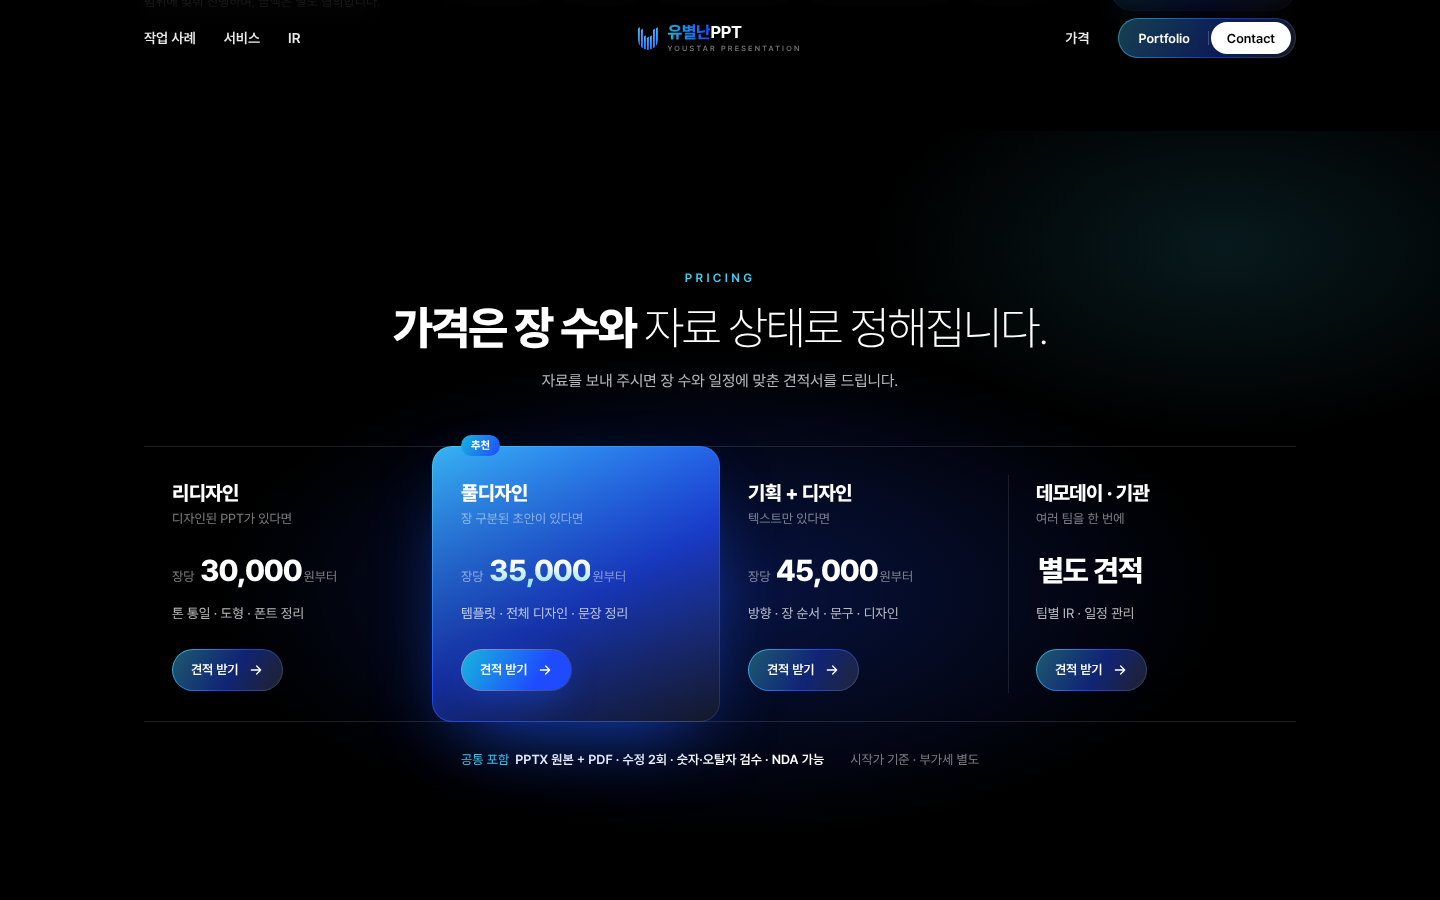
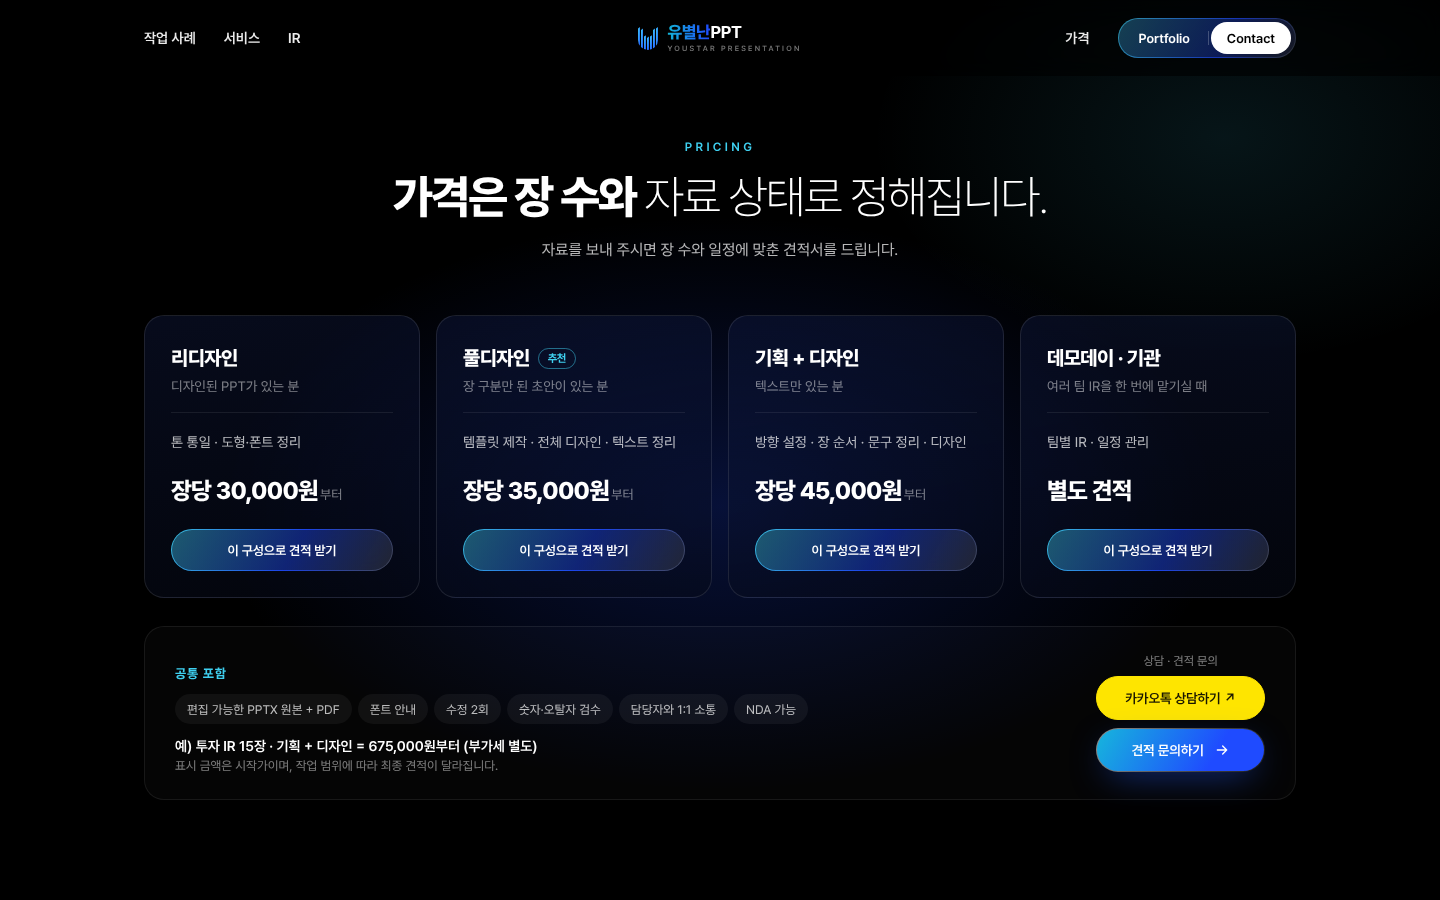
v2 pricing: restore original table content, recommend as small badge only
Claude-Session: https://claude.ai/code/session_01NURhbB6Mq8R8WnaczfYj5a

diff --git a/redesign/v2/index.html b/redesign/v2/index.html
@@ -223,43 +223,42 @@ a{color:inherit;text-decoration:none}
   .ext .gbtn{width:100%}
 }
 
-/* 일곱 번째: 가격 — 한 줄 4칸 표, 추천 칸만 빛 테두리, 아래 공통 포함 한 줄 */
+/* 일곱 번째: 가격 — 기존 사이트 표 그대로(4칸 카드 + 공통 포함 + 예시 + 상담), 추천은 작은 배지만 */
 .prc{position:relative;padding:140px 0 120px;isolation:isolate}
-.prc::before{content:"";position:absolute;inset:0;z-index:-1;background:radial-gradient(ellipse 50% 45% at 50% 60%,rgba(31,75,255,.26),transparent 70%),radial-gradient(ellipse 35% 35% at 85% 15%,rgba(63,208,240,.12),transparent 70%)}
+.prc::before{content:"";position:absolute;inset:0;z-index:-1;background:radial-gradient(ellipse 50% 45% at 50% 55%,rgba(31,75,255,.22),transparent 70%),radial-gradient(ellipse 35% 35% at 85% 15%,rgba(63,208,240,.1),transparent 70%)}
 .prc__head{text-align:center}
 .prc small.k{display:block;font-size:12px;font-weight:600;letter-spacing:.28em;color:#3fd0f0;text-transform:uppercase}
 .prc h2{margin:16px 0 0;font-size:clamp(28px,3.2vw,46px);line-height:1.18;letter-spacing:-.045em}
 .prc h2 b{font-weight:800}.prc h2 span{font-weight:250}
 .prc__head p{margin:16px 0 0;font-size:15.5px;color:var(--ink-2)}
-.ptab{display:grid;grid-template-columns:repeat(4,1fr);margin-top:56px;border-top:1px solid rgba(255,255,255,.12);border-bottom:1px solid rgba(255,255,255,.12)}
-.pcol{position:relative;display:flex;flex-direction:column;padding:34px 28px 30px;opacity:0;transform:translateY(16px);transition:opacity .9s var(--ease),transform .9s var(--ease)}
+.ptab{display:grid;grid-template-columns:repeat(4,1fr);gap:16px;margin-top:56px}
+.pcol{position:relative;display:flex;flex-direction:column;padding:30px 26px 26px;border-radius:20px;border:1px solid rgba(255,255,255,.1);background:linear-gradient(170deg,rgba(20,32,80,.35),rgba(6,10,24,.5));opacity:0;transform:translateY(16px);transition:opacity .9s var(--ease),transform .9s var(--ease),border-color .4s}
+.pcol:hover{border-color:rgba(63,208,240,.45)}
 .ptab.is-in .pcol{opacity:1;transform:none}
 .ptab.is-in .pcol:nth-child(2){transition-delay:.1s}.ptab.is-in .pcol:nth-child(3){transition-delay:.2s}.ptab.is-in .pcol:nth-child(4){transition-delay:.3s}
-.pcol+.pcol::before{content:"";position:absolute;left:0;top:28px;bottom:28px;width:1px;background:rgba(255,255,255,.1)}
-.pcol--pick{margin:-1px 0;border-radius:20px;background:linear-gradient(170deg,rgba(31,75,255,.22),rgba(6,10,28,.6)) padding-box,linear-gradient(150deg,#3fd0f0,#1f4bff 55%,rgba(255,255,255,.15)) border-box;border:1px solid transparent;box-shadow:0 30px 80px -30px rgba(31,90,255,.8)}
-.pcol--pick::before,.pcol--pick+.pcol::before{display:none}
-.pcol__badge{position:absolute;top:-12px;left:28px;padding:4px 10px;border-radius:999px;font-size:11px;font-weight:700;color:#fff;background:linear-gradient(120deg,#16b6dc,#1f4bff)}
-.pcol h3{margin:0;font-size:20px;font-weight:800;letter-spacing:-.03em}
-.pcol__for{margin:6px 0 0;font-size:13px;color:var(--ink-3)}
-.pcol__num{margin:26px 0 0;font-size:13px;color:var(--ink-3)}
-.pcol__num b{font-size:30px;font-weight:800;letter-spacing:-.04em;color:#fff;font-variant-numeric:tabular-nums;margin:0 2px}
-.pcol--pick .pcol__num b{background:linear-gradient(180deg,#fff 30%,#8fdcff);-webkit-background-clip:text;background-clip:text;color:transparent}
-.pcol__inc{margin:14px 0 0;font-size:13.5px;line-height:1.65;color:var(--ink-2)}
-.pcol .gbtn{margin-top:auto;height:42px;padding:0 18px;font-size:13px;align-self:flex-start}
-.pcol__inc{margin-bottom:24px}
-.prc__foot{display:flex;flex-wrap:wrap;align-items:center;justify-content:center;gap:10px 26px;margin-top:30px;font-size:13px;color:var(--ink-3)}
-.prc__foot b{color:#fff;font-weight:600}
-.prc__foot i{font-style:normal;color:#3fd0f0;margin-right:6px}
-@media (max-width:980px){.ptab{grid-template-columns:1fr 1fr}.pcol:nth-child(3)::before{display:none}}
+.pcol h3{display:flex;align-items:center;gap:8px;margin:0;font-size:20px;font-weight:800;letter-spacing:-.03em}
+.pcol__badge{padding:3px 9px;border-radius:999px;font-size:11px;font-weight:700;color:#3fd0f0;border:1px solid rgba(63,208,240,.5)}
+.pcol__for{margin:8px 0 0;font-size:13.5px;color:var(--ink-3)}
+.pcol__inc{margin:18px 0 0;padding-top:18px;border-top:1px solid rgba(255,255,255,.08);font-size:14px;line-height:1.65;color:var(--ink-2)}
+.pcol__num{margin:22px 0 24px;font-size:13px;color:var(--ink-3)}
+.pcol__num b{font-size:24px;font-weight:800;letter-spacing:-.03em;color:#fff;margin-right:2px}
+.pcol .gbtn{margin-top:auto;height:42px;padding:0 18px;font-size:13px;align-self:stretch}
+.pfoot{margin-top:28px;padding:26px 30px;border-radius:20px;border:1px solid rgba(255,255,255,.08);background:rgba(255,255,255,.02);display:grid;grid-template-columns:1fr auto;gap:18px 30px;align-items:center}
+.pfoot__t{font-size:13px;font-weight:700;color:#3fd0f0;letter-spacing:.06em}
+.pincl{display:flex;flex-wrap:wrap;gap:6px;margin:10px 0 0;padding:0;list-style:none}
+.pincl li{height:30px;display:inline-flex;align-items:center;padding:0 12px;border-radius:999px;font-size:12.5px;color:var(--ink-2);background:rgba(255,255,255,.05)}
+.pfoot__ex{margin:14px 0 0;font-size:14px;color:#fff;font-weight:600}
+.pfoot__basis{margin:4px 0 0;font-size:12.5px;color:var(--ink-3)}
+.pfoot__acts{display:flex;flex-direction:column;gap:8px;align-items:stretch}
+.pfoot__acts span{font-size:12px;color:var(--ink-3);text-align:center}
+.pfoot__acts .gbtn{height:44px;font-size:13.5px}
+.gbtn.gbtn--kakao{background:#fee500!important;border-color:#fee500!important;color:#191600!important;backdrop-filter:none}
+@media (max-width:980px){.ptab{grid-template-columns:1fr 1fr}}
 @media (max-width:860px){
   .prc{padding:96px 0 80px}
   .prc h2{font-size:clamp(26px,7.6vw,34px)}
-  .ptab{grid-template-columns:1fr;border:0;margin-top:40px;gap:12px}
-  .pcol{padding:24px 22px;border-radius:18px;background:rgba(255,255,255,.03)}
-  .pcol::before{display:none}
-  .pcol--pick{margin:8px 0 0}
-  .pcol__num{margin-top:16px}
-  .prc__foot{justify-content:flex-start;flex-direction:column;align-items:flex-start;gap:6px}
+  .ptab{grid-template-columns:1fr;margin-top:40px;gap:12px}
+  .pfoot{grid-template-columns:1fr;padding:22px 20px}
 }
 
 /* 섹션마다 핵심 요소에 첫 화면 빛과 같은 청록·파랑 네온을 은은하게 */
@@ -478,8 +477,16 @@ a{color:inherit;text-decoration:none}
       <h2><b>가격은 장 수와</b> <span>자료 상태로 정해집니다.</span></h2>
       <p>자료를 보내 주시면 장 수와 일정에 맞춘 견적서를 드립니다.</p>
     </div>
-    <div class="ptab" id="ptab"><article class="pcol"><h3>리디자인</h3><p class="pcol__for">디자인된 PPT가 있다면</p><p class="pcol__num">장당 <b>30,000</b>원부터</p><p class="pcol__inc">톤 통일 · 도형 · 폰트 정리</p><a class="gbtn" href="#contact" data-package="리디자인">견적 받기<svg viewBox="0 0 24 24" fill="none" stroke="currentColor" stroke-width="2" stroke-linecap="round" stroke-linejoin="round"><path d="M5 12h14M13 6l6 6-6 6"/></svg></a></article><article class="pcol pcol--pick"><span class="pcol__badge">추천</span><h3>풀디자인</h3><p class="pcol__for">장 구분된 초안이 있다면</p><p class="pcol__num">장당 <b>35,000</b>원부터</p><p class="pcol__inc">템플릿 · 전체 디자인 · 문장 정리</p><a class="gbtn gbtn--fill" href="#contact" data-package="풀디자인">견적 받기<svg viewBox="0 0 24 24" fill="none" stroke="currentColor" stroke-width="2" stroke-linecap="round" stroke-linejoin="round"><path d="M5 12h14M13 6l6 6-6 6"/></svg></a></article><article class="pcol"><h3>기획 + 디자인</h3><p class="pcol__for">텍스트만 있다면</p><p class="pcol__num">장당 <b>45,000</b>원부터</p><p class="pcol__inc">방향 · 장 순서 · 문구 · 디자인</p><a class="gbtn" href="#contact" data-package="기획 + 디자인">견적 받기<svg viewBox="0 0 24 24" fill="none" stroke="currentColor" stroke-width="2" stroke-linecap="round" stroke-linejoin="round"><path d="M5 12h14M13 6l6 6-6 6"/></svg></a></article><article class="pcol"><h3>데모데이 · 기관</h3><p class="pcol__for">여러 팀을 한 번에</p><p class="pcol__num"><b>별도 견적</b></p><p class="pcol__inc">팀별 IR · 일정 관리</p><a class="gbtn" href="#contact" data-package="데모데이 · 기관">견적 받기<svg viewBox="0 0 24 24" fill="none" stroke="currentColor" stroke-width="2" stroke-linecap="round" stroke-linejoin="round"><path d="M5 12h14M13 6l6 6-6 6"/></svg></a></article></div>
-    <p class="prc__foot"><span><i>공통 포함</i><b>PPTX 원본 + PDF · 수정 2회 · 숫자·오탈자 검수 · NDA 가능</b></span><span>시작가 기준 · 부가세 별도</span></p>
+    <div class="ptab" id="ptab"><article class="pcol"><h3>리디자인</h3><p class="pcol__for">디자인된 PPT가 있는 분</p><p class="pcol__inc">톤 통일 · 도형·폰트 정리</p><p class="pcol__num"><b>장당 30,000원</b>부터</p><a class="gbtn" href="#contact" data-package="리디자인">이 구성으로 견적 받기</a></article><article class="pcol"><h3>풀디자인<span class="pcol__badge">추천</span></h3><p class="pcol__for">장 구분만 된 초안이 있는 분</p><p class="pcol__inc">템플릿 제작 · 전체 디자인 · 텍스트 정리</p><p class="pcol__num"><b>장당 35,000원</b>부터</p><a class="gbtn" href="#contact" data-package="풀디자인">이 구성으로 견적 받기</a></article><article class="pcol"><h3>기획 + 디자인</h3><p class="pcol__for">텍스트만 있는 분</p><p class="pcol__inc">방향 설정 · 장 순서 · 문구 정리 · 디자인</p><p class="pcol__num"><b>장당 45,000원</b>부터</p><a class="gbtn" href="#contact" data-package="기획 + 디자인">이 구성으로 견적 받기</a></article><article class="pcol"><h3>데모데이 · 기관</h3><p class="pcol__for">여러 팀 IR을 한 번에 맡기실 때</p><p class="pcol__inc">팀별 IR · 일정 관리</p><p class="pcol__num"><b>별도 견적</b></p><a class="gbtn" href="#contact" data-package="데모데이 · 기관">이 구성으로 견적 받기</a></article></div>
+    <div class="pfoot">
+      <div>
+        <p class="pfoot__t">공통 포함</p>
+        <ul class="pincl"><li>편집 가능한 PPTX 원본 + PDF</li><li>폰트 안내</li><li>수정 2회</li><li>숫자·오탈자 검수</li><li>담당자와 1:1 소통</li><li>NDA 가능</li></ul>
+        <p class="pfoot__ex">예) 투자 IR 15장 · 기획 + 디자인 = 675,000원부터 (부가세 별도)</p>
+        <p class="pfoot__basis">표시 금액은 시작가이며, 작업 범위에 따라 최종 견적이 달라집니다.</p>
+      </div>
+      <div class="pfoot__acts"><span>상담 · 견적 문의</span><a class="gbtn gbtn--kakao" href="https://pf.kakao.com/_XgRWxj/chat" target="_blank" rel="noopener">카카오톡 상담하기 ↗</a><a class="gbtn gbtn--fill" href="#contact">견적 문의하기<svg viewBox="0 0 24 24" fill="none" stroke="currentColor" stroke-width="2" stroke-linecap="round" stroke-linejoin="round"><path d="M5 12h14M13 6l6 6-6 6"/></svg></a></div>
+    </div>
   </div>
 </section>
 </main>
